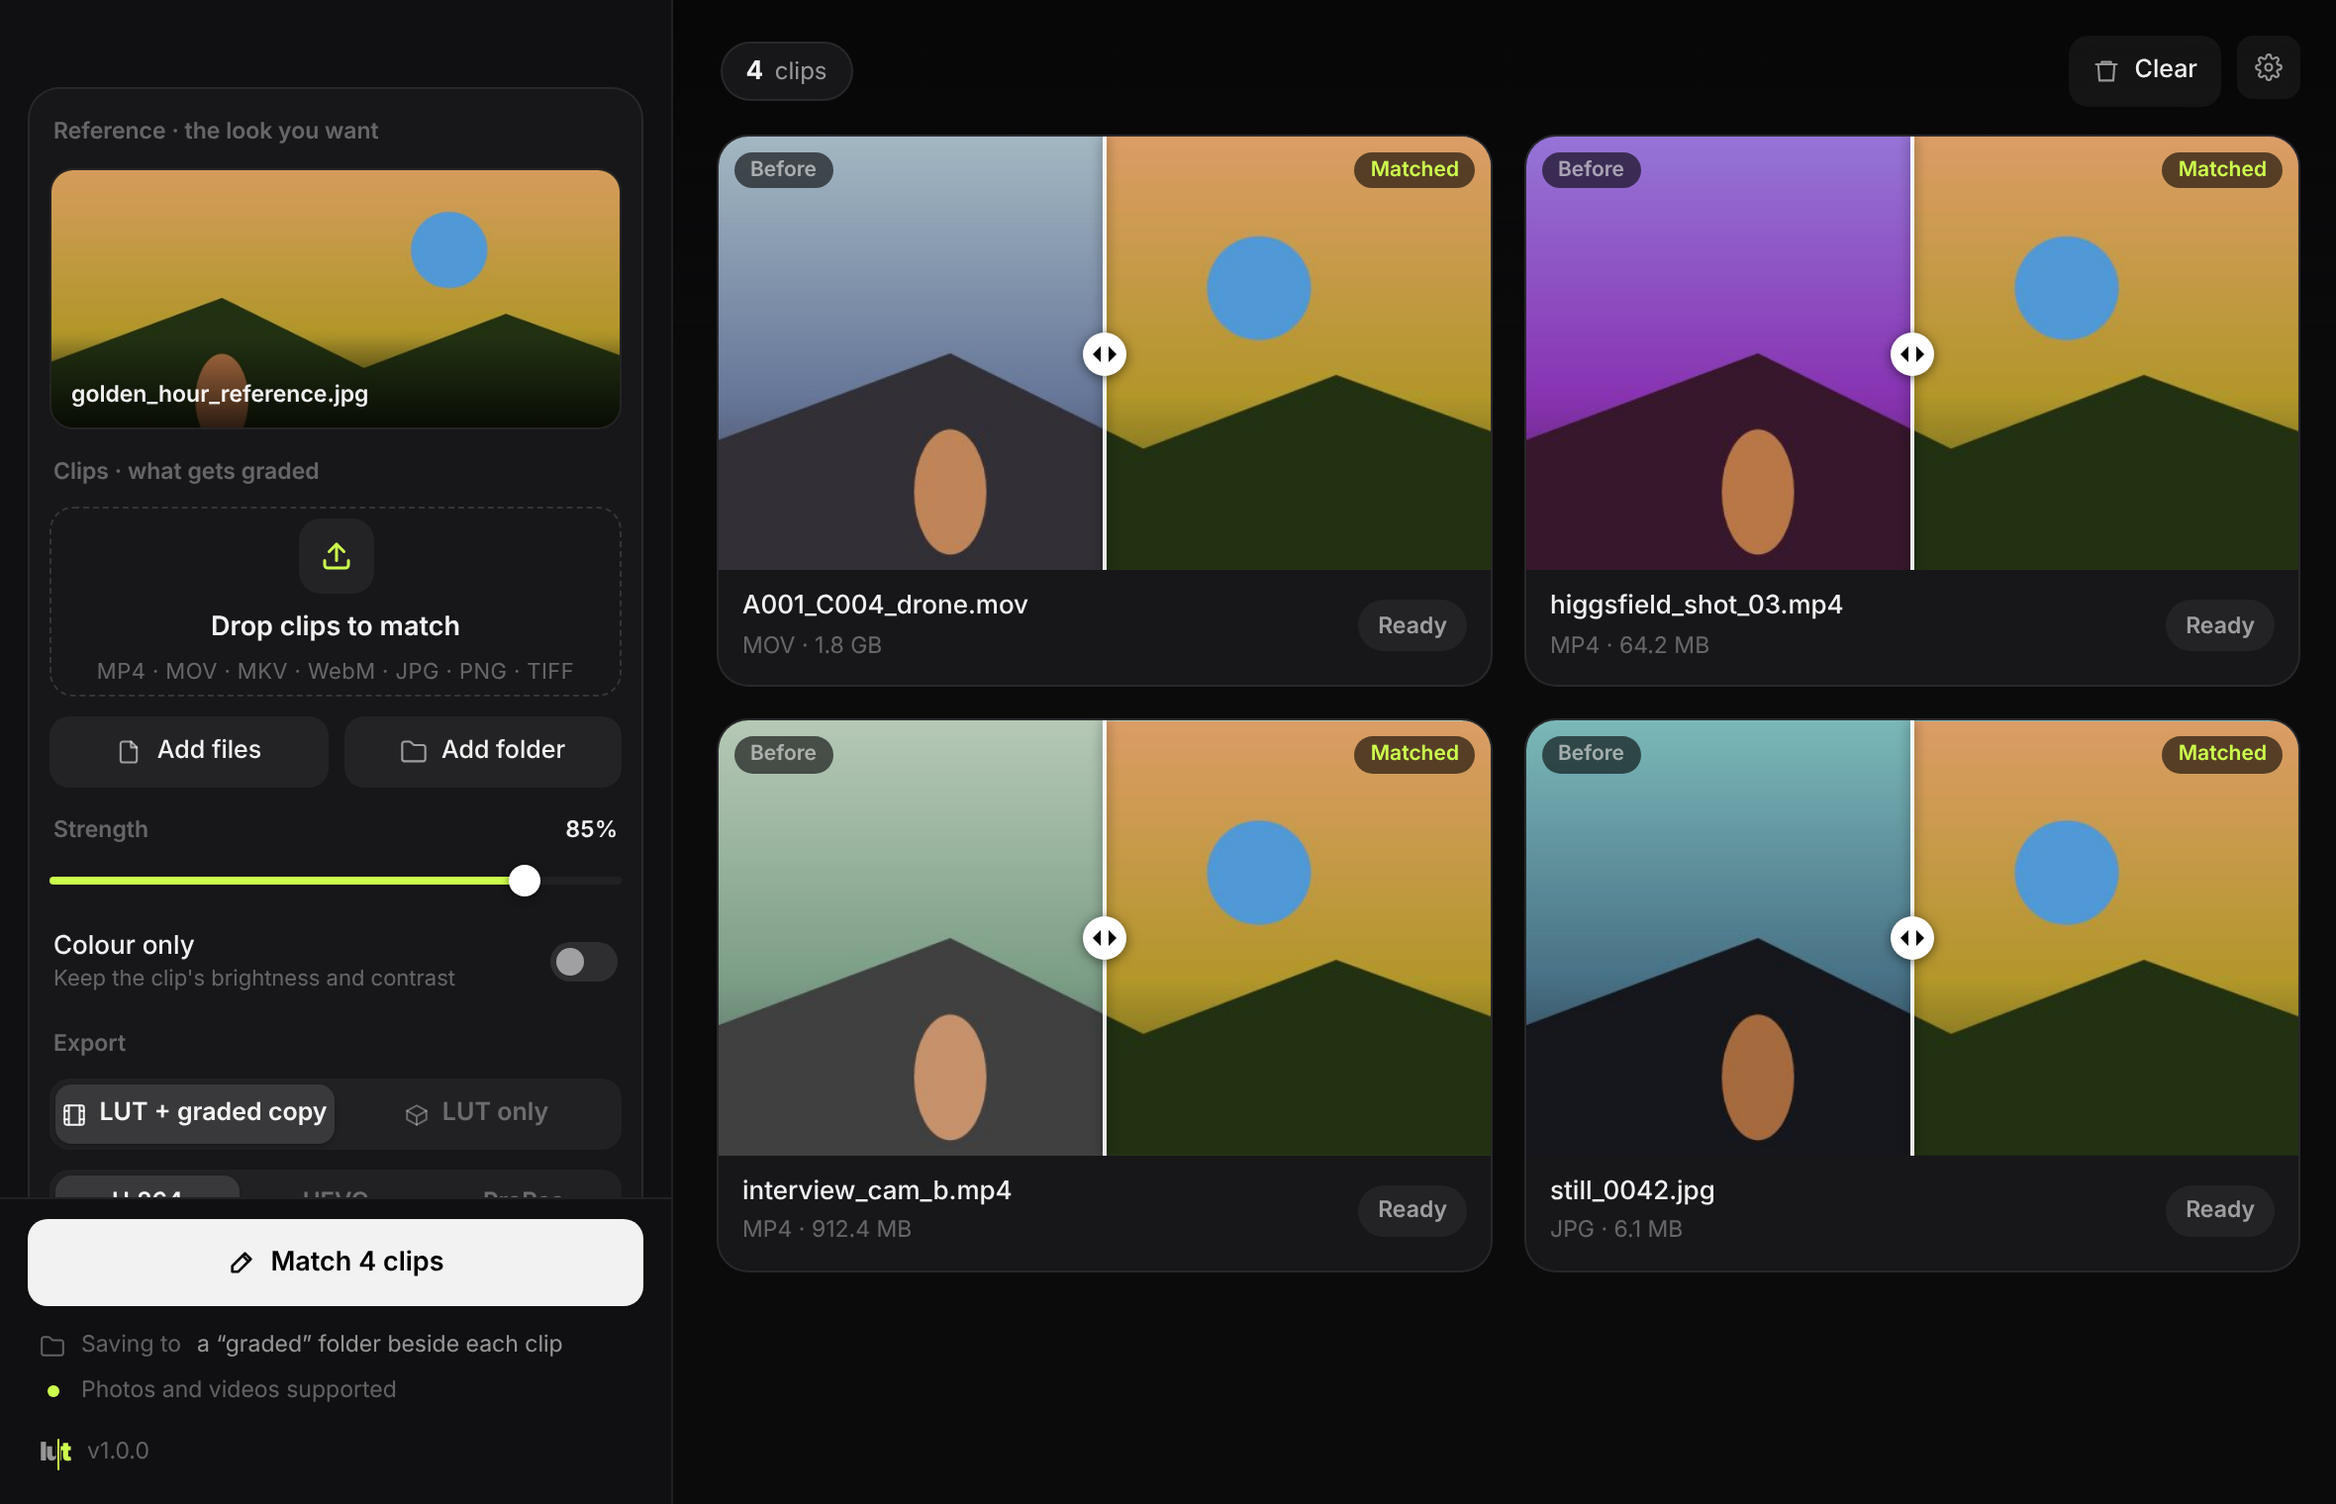
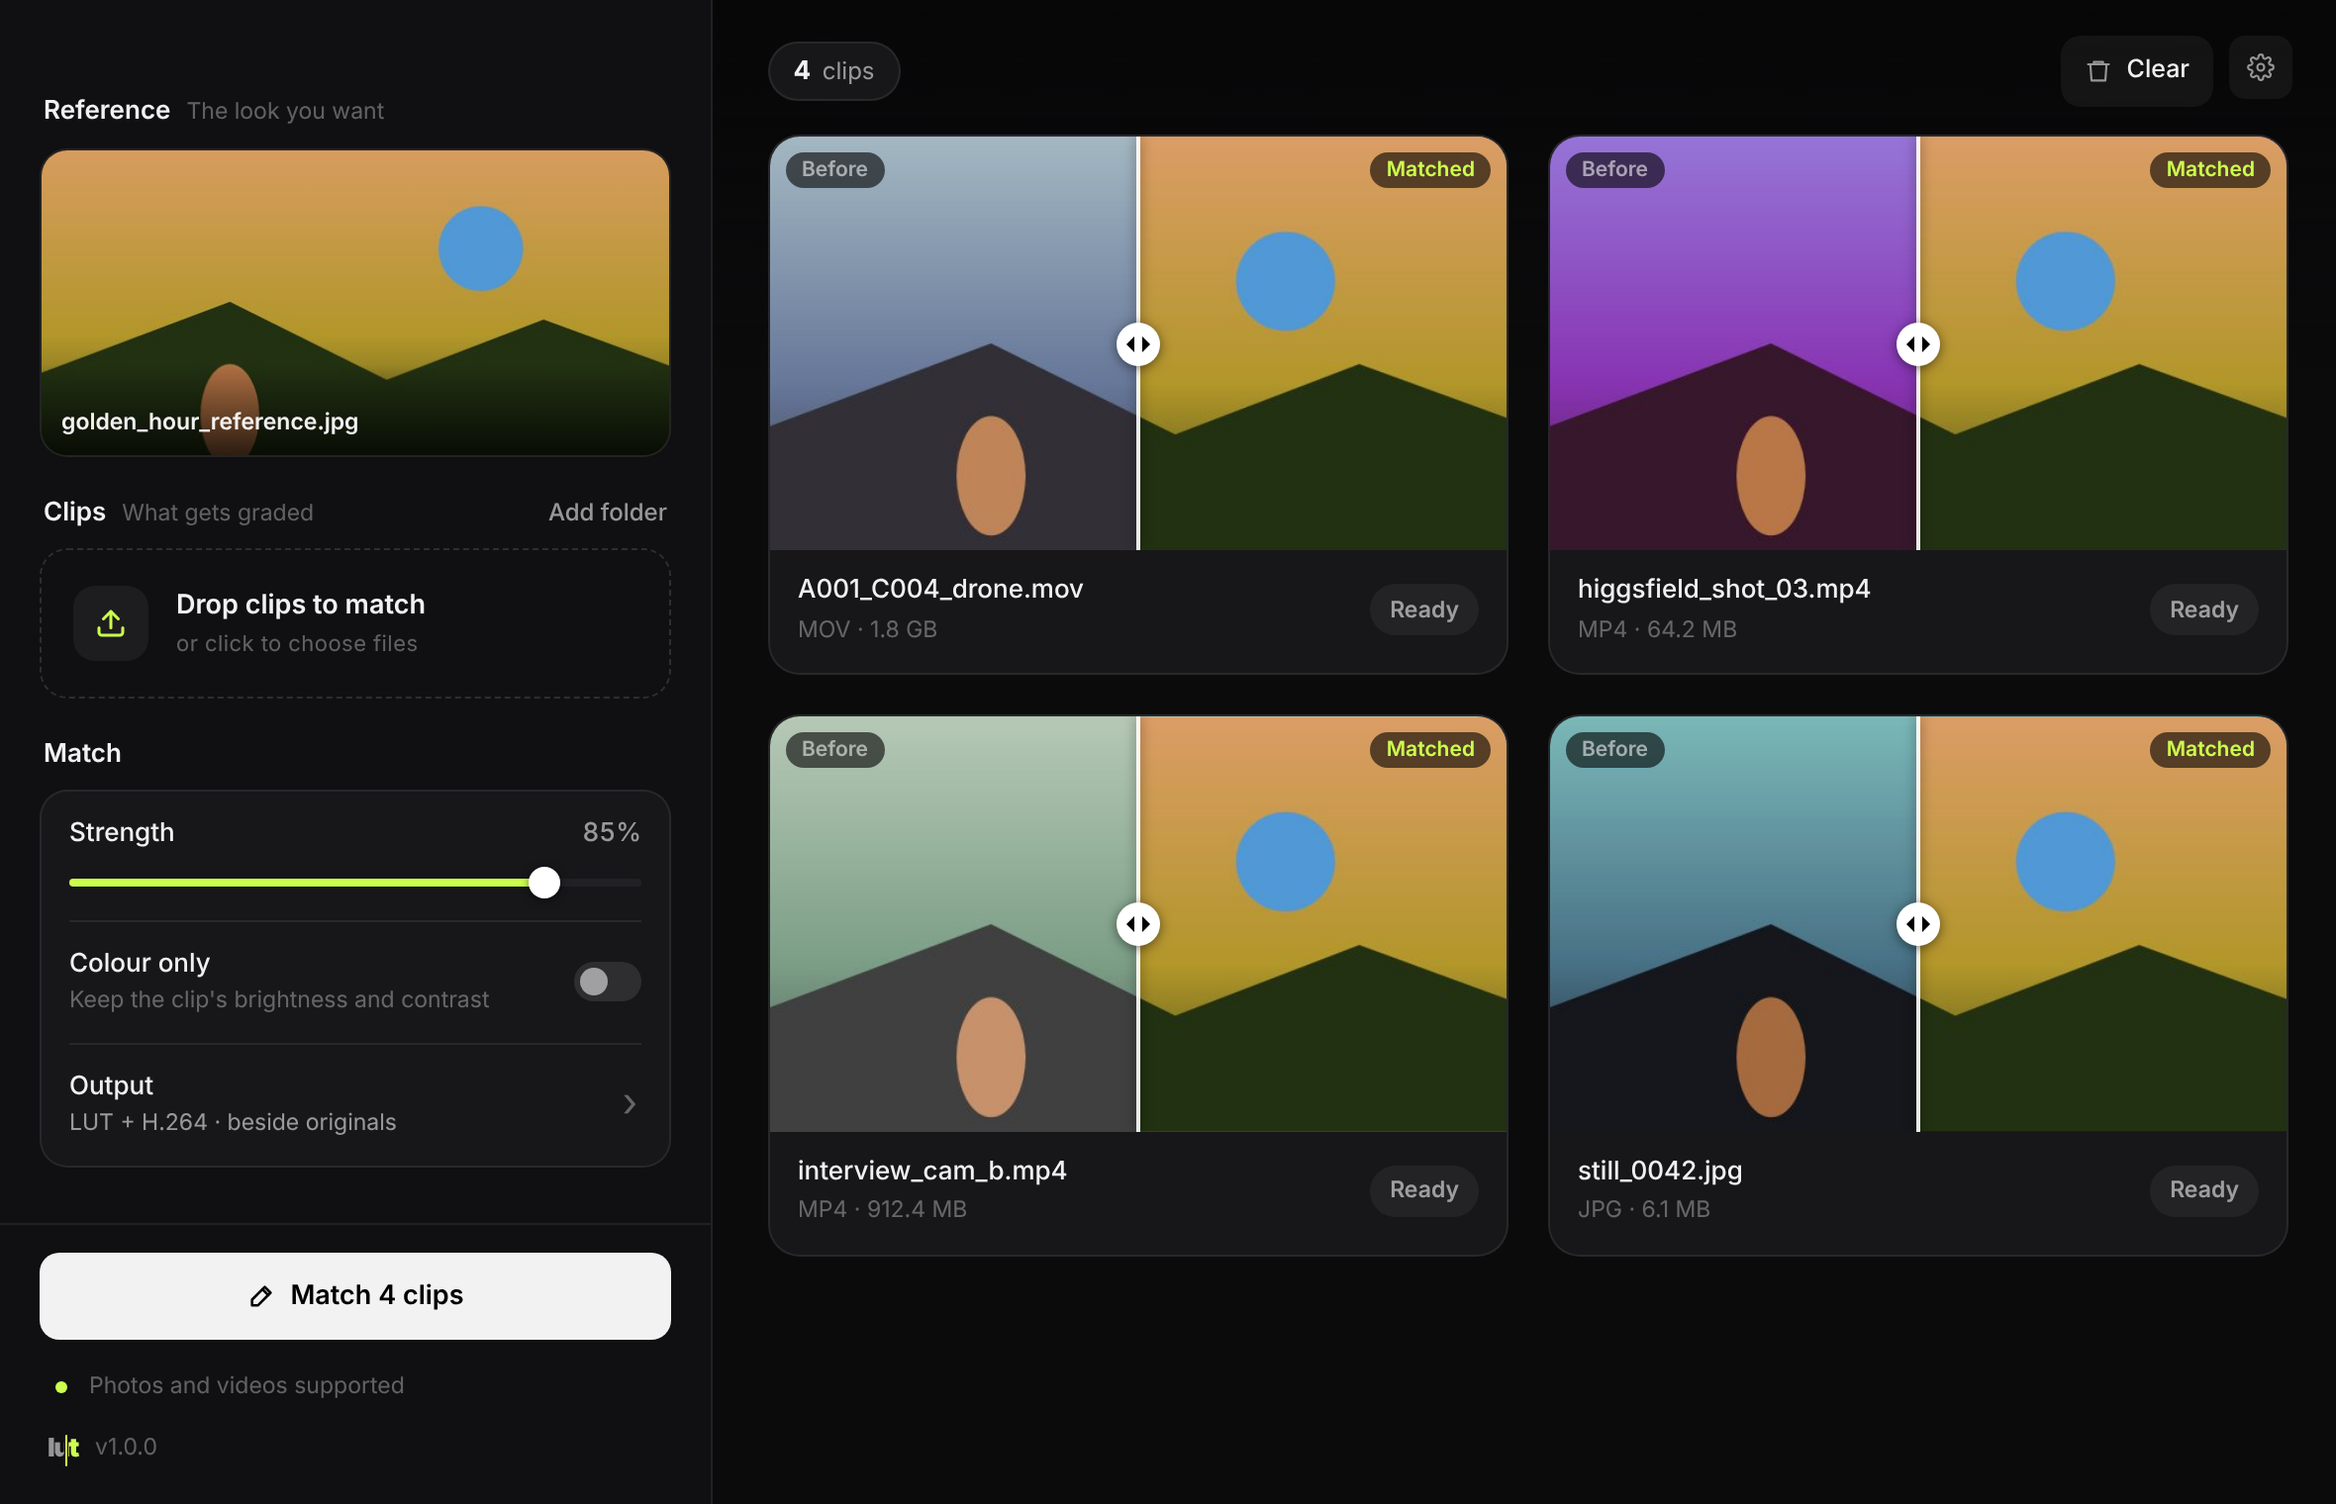
Lut 1.0.2: a calmer sidebar
The sidebar is now three sections: Reference, Clips and Match. Each has
room to breathe. Export, codec, save location and "open when done" moved
into an Output sheet, summarised on one row. The clip grid and cards get
more spacing too.

Claude-Session: https://claude.ai/code/session_0153qDJYJjCYZUT5M9E4RhFr

diff --git a/lutmatch/ui/index.html b/lutmatch/ui/index.html
@@ -15,8 +15,8 @@
     <aside id="sidebar">
       <div class="titlebar pywebview-drag-region"></div>
       <div class="side-scroll">
-        <div class="card composer">
-          <div class="label">Reference <span class="faint">· the look you want</span></div>
+        <section class="sect">
+          <div class="sect-head"><b>Reference</b><span>The look you want</span></div>
           <button id="ref-slot" class="ref-slot" data-zone="ref">
             <div class="ref-empty">
               <div class="dz-icon" data-icon="target"></div>
@@ -25,43 +25,27 @@
             </div>
             <div class="ref-full hidden"><img id="ref-img" alt=""><div class="ref-cap"><span id="ref-name"></span><span class="ref-x" id="ref-change">Change</span></div></div>
           </button>
+        </section>
 
-          <div class="label">Clips <span class="faint">· what gets graded</span></div>
+        <section class="sect">
+          <div class="sect-head"><b>Clips</b><span>What gets graded</span><button class="link-btn" id="add-folder">Add folder</button></div>
           <button id="dropzone" class="dropzone" data-zone="clips">
             <div class="dz-icon" data-icon="upload"></div>
-            <b>Drop clips to match</b>
-            <span>MP4 · MOV · MKV · WebM · JPG · PNG · TIFF</span>
+            <div class="dz-text"><b>Drop clips to match</b><span>or click to choose files</span></div>
           </button>
-          <div class="row2">
-            <button class="btn-quiet" id="add-files"><i data-icon="file"></i>Add files</button>
-            <button class="btn-quiet" id="add-folder"><i data-icon="folder"></i>Add folder</button>
-          </div>
+        </section>
 
-          <div class="label slider-label">Strength <span id="strength-val">100%</span></div>
-          <input type="range" id="strength" min="0" max="100" step="1" value="100">
-          <button class="opt mini" id="keep-luma"><div class="t"><b>Colour only</b><span>Keep the clip's brightness and contrast</span></div><span class="switch"></span></button>
-
-          <div class="label">Export</div>
-          <div class="tabs" id="export-mode">
-            <button data-v="graded" class="on"><i data-icon="film"></i>LUT + graded copy</button>
-            <button data-v="lut"><i data-icon="cube"></i>LUT only</button>
+        <section class="sect">
+          <div class="sect-head"><b>Match</b></div>
+          <div class="panel">
+            <div class="panel-row slider-row">
+              <div class="row-top"><span>Strength</span><span class="val" id="strength-val">100%</span></div>
+              <input type="range" id="strength" min="0" max="100" step="1" value="100">
+            </div>
+            <button class="panel-row opt" id="keep-luma"><div class="t"><b>Colour only</b><span>Keep the clip's brightness and contrast</span></div><span class="switch"></span></button>
+            <button class="panel-row opt" id="output-row"><div class="t"><b>Output</b><span id="output-sum"></span></div><span class="chev">›</span></button>
           </div>
-          <div class="tabs small" id="codec">
-            <button data-v="h264" class="on">H.264</button>
-            <button data-v="hevc">HEVC</button>
-            <button data-v="prores">ProRes</button>
-          </div>
-
-          <div class="label">Save to</div>
-          <div class="tabs" id="out-mode">
-            <button data-mode="beside" class="on"><i data-icon="layers"></i>Beside originals</button>
-            <button data-mode="custom"><i data-icon="folder"></i>Choose folder</button>
-          </div>
-          <button class="custom-row hidden" id="custom-row" title="Change folder">
-            <i data-icon="folder"></i><span class="path" id="custom-path"></span><span class="change">Change</span>
-          </button>
-
-        </div>
+        </section>
       </div>
       <div class="side-action">
         <div class="progress hidden" id="progress"><div></div></div>
@@ -101,6 +85,34 @@
   <div id="drop" class="hidden">
     <div class="drop-half" data-zone="ref"><div class="drop-frame"></div><div class="drop-inner"><div class="dz-icon big" data-icon="target"></div>Reference<small>The look you want</small></div></div>
     <div class="drop-half" data-zone="clips"><div class="drop-frame"></div><div class="drop-inner"><div class="dz-icon big" data-icon="film"></div>Clips<small>What gets graded</small></div></div>
+  </div>
+  <div id="output-holder" class="hidden">
+    <div id="output-panel" class="out-panel">
+      <div class="label">Export</div>
+      <div class="tabs" id="export-mode">
+        <button data-v="graded" class="on"><i data-icon="film"></i>LUT + graded copy</button>
+        <button data-v="lut"><i data-icon="cube"></i>LUT only</button>
+      </div>
+      <div id="codec-wrap">
+        <div class="label">Video codec</div>
+        <div class="tabs" id="codec">
+          <button data-v="h264" class="on">H.264</button>
+          <button data-v="hevc">HEVC</button>
+          <button data-v="prores">ProRes 422 HQ</button>
+        </div>
+        <div class="hint" id="codec-hint"></div>
+      </div>
+      <div class="label">Save to</div>
+      <div class="tabs" id="out-mode">
+        <button data-mode="beside" class="on"><i data-icon="layers"></i>Beside originals</button>
+        <button data-mode="custom"><i data-icon="folder"></i>Choose folder</button>
+      </div>
+      <button class="custom-row hidden" id="custom-row" title="Change folder">
+        <i data-icon="folder"></i><span class="path" id="custom-path"></span><span class="change">Change</span>
+      </button>
+      <div class="label">After matching</div>
+      <div class="group"><button class="opt" id="open-after"><div class="t"><b>Open the folder when done</b><span>Shows the LUTs and graded copies in Finder or Explorer</span></div><span class="switch"></span></button></div>
+    </div>
   </div>
   <div id="modal-root"></div>
   <div id="toasts"></div>

diff --git a/lutmatch/ui/app.js b/lutmatch/ui/app.js
@@ -156,7 +156,11 @@
   }
 
   // ---------- modals ----------
-  function closeModal() { $('#modal-root').innerHTML = ''; modal = null; }
+  function closeModal() {
+    const panel = document.querySelector('#modal-root #output-panel');
+    if (panel) $('#output-holder').appendChild(panel);
+    $('#modal-root').innerHTML = ''; modal = null;
+  }
   function showModal(name, html, onClick, cls) {
     modal = name;
     $('#modal-root').innerHTML = `<div class="modal-back"><div class="modal ${cls || ''}">${html}</div></div>`;
@@ -200,8 +204,6 @@
   function openSettings() {
     showModal('settings', `
       <div class="modal-title"><h2>Settings</h2><button class="btn-icon" data-m="close">${icon('x')}</button></div>
-      <div class="label">Matching</div>
-      <div class="group">${opt('open_after', 'Open the folder when matching finishes', 'Shows the LUTs and graded copies in Finder or Explorer')}</div>
       <div class="label">Updates</div>
       <div class="group">
         <div class="ver-row" id="upd-row"></div>
@@ -349,7 +351,6 @@
 
   // ---------- user actions ----------
   $('#ref-slot').onclick = () => !busy && api.pick_reference();
-  $('#add-files').onclick = () => api.pick_clips();
   $('#dropzone').onclick = () => api.pick_clips();
   $('#add-folder').onclick = () => api.pick_folder();
   $('#match-btn').onclick = () => api.match(mode, customDir);
@@ -378,14 +379,32 @@
     if (!b) return;
     settings = await api.set_setting('lut_only', b.dataset.v === 'lut');
     setTabs('#export-mode', b.dataset.v);
-    $('#codec').classList.toggle('hidden', !!settings.lut_only);
+    renderOutput();
   };
   $('#codec').onclick = async (e) => {
     const b = e.target.closest('button');
     if (!b) return;
     settings = await api.set_setting('codec', b.dataset.v);
     setTabs('#codec', b.dataset.v);
+    renderOutput();
   };
+  const CODEC = { h264: ['H.264', 'Plays everywhere. Small files, high quality (CRF 16).'],
+    hevc: ['HEVC', 'About half the size of H.264 at the same quality.'],
+    prores: ['ProRes', '10-bit ProRes 422 HQ in a .mov, for grading further.'] };
+  function renderOutput() {
+    const c = CODEC[settings.codec] || CODEC.h264;
+    $('#codec-wrap').classList.toggle('hidden', !!settings.lut_only);
+    $('#codec-hint').textContent = c[1];
+    $('#open-after .switch').classList.toggle('on', !!settings.open_after);
+    const where = mode === 'custom' && customDir ? (customDir.split(/[\\/]/).filter(Boolean).pop() || customDir) : 'beside originals';
+    $('#output-sum').textContent = (settings.lut_only ? 'LUT only' : 'LUT + ' + c[0]) + ' · ' + where;
+  }
+  $('#output-row').onclick = () => {
+    showModal('output', `<div class="modal-title"><h2>Output</h2><button class="btn-icon" data-m="close">${icon('x')}</button></div><div id="output-slot"></div>`,
+      (m) => { if (m === 'close') closeModal(); }, 'output');
+    $('#output-slot').replaceWith($('#output-panel'));
+  };
+  $('#open-after').onclick = async () => { settings = await api.set_setting('open_after', !settings.open_after); renderOutput(); };
 
   async function pickCustom() {
     const d = await api.choose_output();
@@ -398,6 +417,7 @@
     $('#custom-row').classList.toggle('hidden', m !== 'custom');
     $('#custom-path').textContent = tilde(customDir) || '';
     $('#save-path').textContent = m === 'custom' && customDir ? tilde(customDir) : 'a “graded” folder beside each clip';
+    renderOutput();
     refresh();
   }
   $('#out-mode').onclick = async (e) => {
@@ -466,7 +486,6 @@
     paintStrength();
     $('#keep-luma .switch').classList.toggle('on', !!settings.keep_luma);
     setTabs('#export-mode', settings.lut_only ? 'lut' : 'graded');
-    $('#codec').classList.toggle('hidden', !!settings.lut_only);
     setTabs('#codec', settings.codec || 'h264');
     setMode(settings.out_mode === 'custom' && customDir ? 'custom' : 'beside');
     renderRef();

diff --git a/lutmatch/ui/styles.css b/lutmatch/ui/styles.css
@@ -425,3 +425,48 @@ input[type=range]:focus { outline: none; }
 .empty p { max-width: 520px; }
 .side-action { padding: 10px 14px 12px; display: flex; flex-direction: column; gap: 10px; border-top: 1px solid var(--stroke); }
 .ref-slot { height: 132px; }
+
+/* ---------- sidebar v2: three calm sections, output settings in a sheet ---------- */
+#sidebar { width: 360px; }
+#toasts { left: 360px; }
+.side-scroll { padding: 48px 20px 16px; gap: 22px; }
+body.win .side-scroll { padding-top: 22px; }
+.sect { display: flex; flex-direction: column; gap: 10px; }
+.sect-head { display: flex; align-items: baseline; gap: 8px; padding: 0 2px; }
+.sect-head b { font: 600 13px var(--font-display); color: var(--text); }
+.sect-head span { color: var(--text3); font-size: 11.5px; }
+.link-btn { margin-left: auto; color: var(--text2); font-size: 12px; font-weight: 500; }
+.link-btn:hover { color: var(--accent); }
+.ref-slot { height: auto; aspect-ratio: 16 / 9; border-radius: 14px; }
+.ref-empty { gap: 8px; }
+.composer .dropzone, .sect .dropzone { height: auto; flex-direction: row; justify-content: flex-start; gap: 14px; padding: 18px 16px; border-radius: 14px; text-align: left; }
+.dropzone .dz-icon { margin: 0; }
+.dz-text { display: flex; flex-direction: column; gap: 3px; }
+.panel { background: var(--card); border: 1px solid var(--stroke); border-radius: 14px; padding: 0 14px; }
+.panel-row { display: flex; width: 100%; padding: 13px 0; }
+.panel-row + .panel-row { border-top: 1px solid var(--stroke); }
+.slider-row { flex-direction: column; gap: 8px; padding-bottom: 8px; }
+.row-top { display: flex; justify-content: space-between; font-weight: 500; }
+.row-top .val { color: var(--text2); font-variant-numeric: tabular-nums; }
+.panel-row.opt .t b { font-weight: 500; }
+.panel-row.opt .t span { margin-top: 2px; }
+.chev { color: var(--text3); font-size: 20px; line-height: 1; padding: 0 2px 2px; }
+#output-row:hover .chev { color: var(--text); }
+#output-sum { color: var(--text2) !important; }
+.side-action { padding: 14px 20px; }
+#footer { padding: 2px 24px 16px; }
+
+.modal.output { width: 460px; gap: 16px; padding: 22px; }
+.out-panel { display: flex; flex-direction: column; gap: 10px; }
+.out-panel .label { margin-top: 8px; }
+.out-panel .label:first-child { margin-top: 0; }
+.out-panel .tabs button { height: 34px; }
+.out-panel .hint { color: var(--text3); font-size: 11.5px; padding: 0 2px; }
+.out-panel #codec-wrap { display: flex; flex-direction: column; gap: 10px; }
+.out-panel .group { padding: 2px 14px; }
+.grid { padding: 4px 24px 60px 28px; gap: 20px; grid-template-columns: repeat(auto-fill, minmax(320px, 1fr)); }
+.card-foot { padding: 12px 14px 14px; }
+.topbar { padding: 14px 22px 6px 28px; }
+.ref-slot { aspect-ratio: auto; height: 156px; }
+.side-scroll { gap: 20px; }
+#save-row { display: none !important; }
